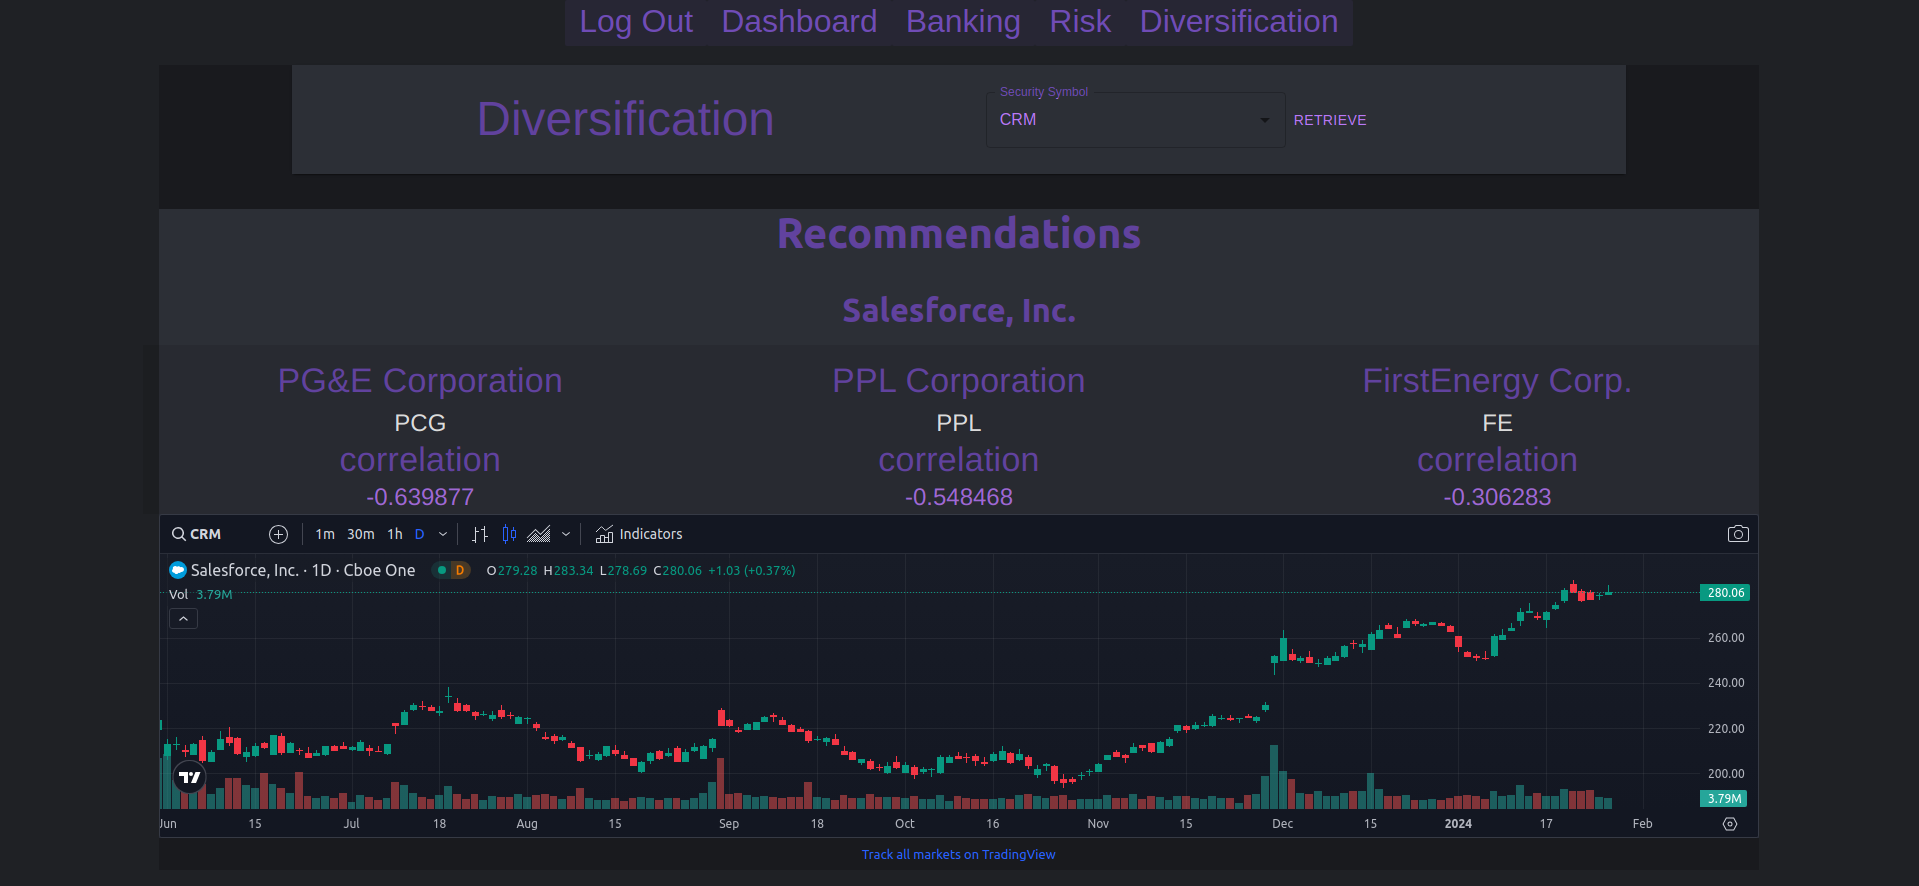
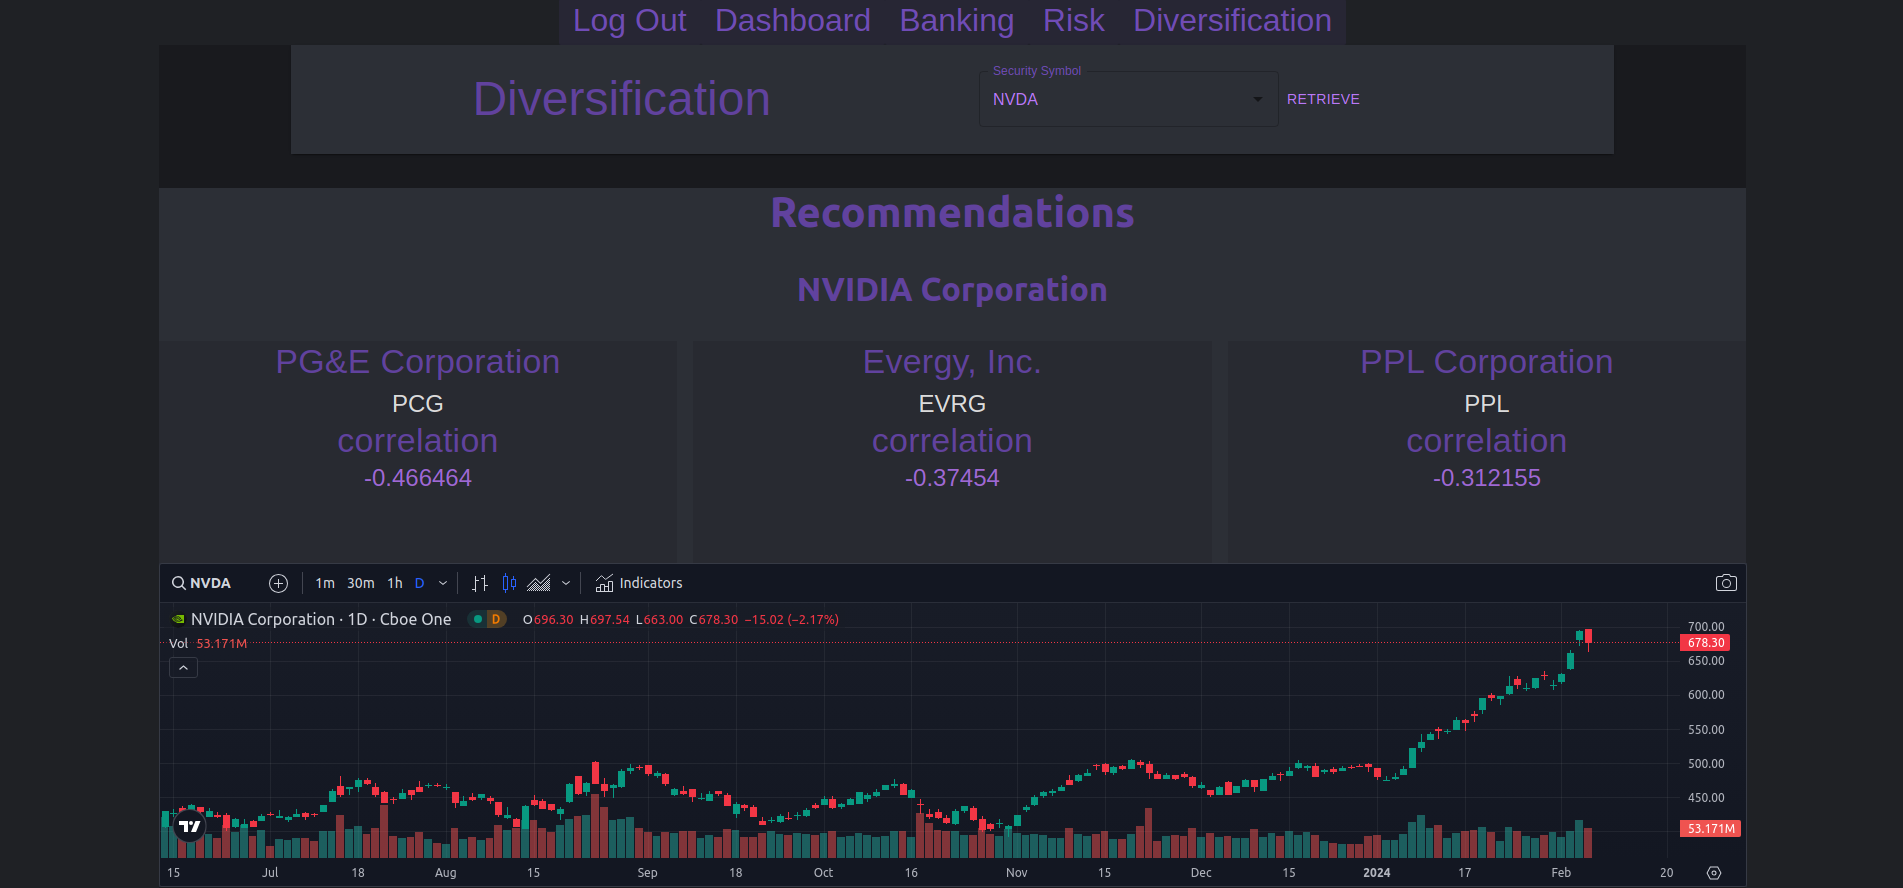
Fix overflow (#144)
* fixed styling of DiversificationCard.tsx

* updated screenshot

diff --git a/src/components/DiversificationCard.tsx b/src/components/DiversificationCard.tsx
@@ -8,8 +8,12 @@ const DiversificationCard = (props: any) => {
   };
 
   return (
-    <Grid container spacing={2} justifyContent="center" alignItems="center">
-      <Grid item xs={12} style={{ backgroundColor: "rgba(0,0,0,.1)" }}>
+    <Grid container justifyContent="center">
+      <Grid
+        item
+        xs={12}
+        style={{ backgroundColor: "rgba(0,0,0,.1)", minHeight: "25vh" }}
+      >
         <Typography variant="h4" component="h4" mb="1%">
           {props.name}
         </Typography>

diff --git a/src/components/views/Diversification.tsx b/src/components/views/Diversification.tsx
@@ -236,7 +236,7 @@ const Diversification = () => {
               <Grid
                 container
                 spacing={2}
-                alignItems="center"
+                alignItems="flex-start"
                 justifyContent="space-evenly"
               >
                 {diversRec.map((rec: any) => {
